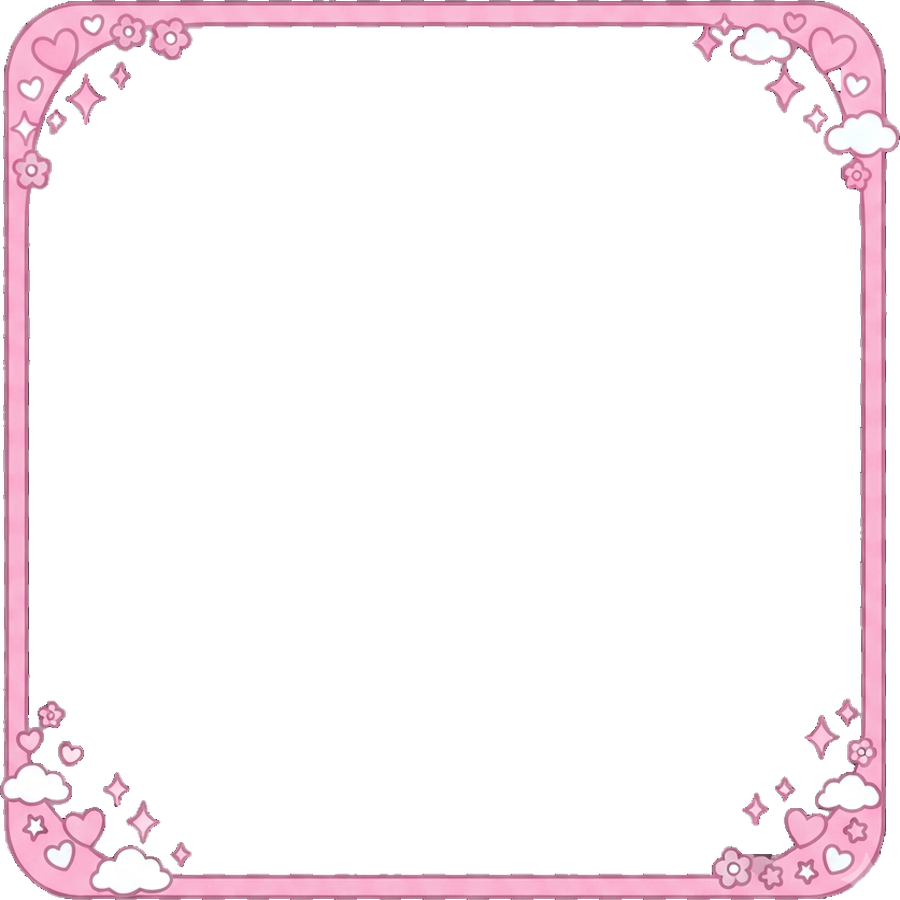
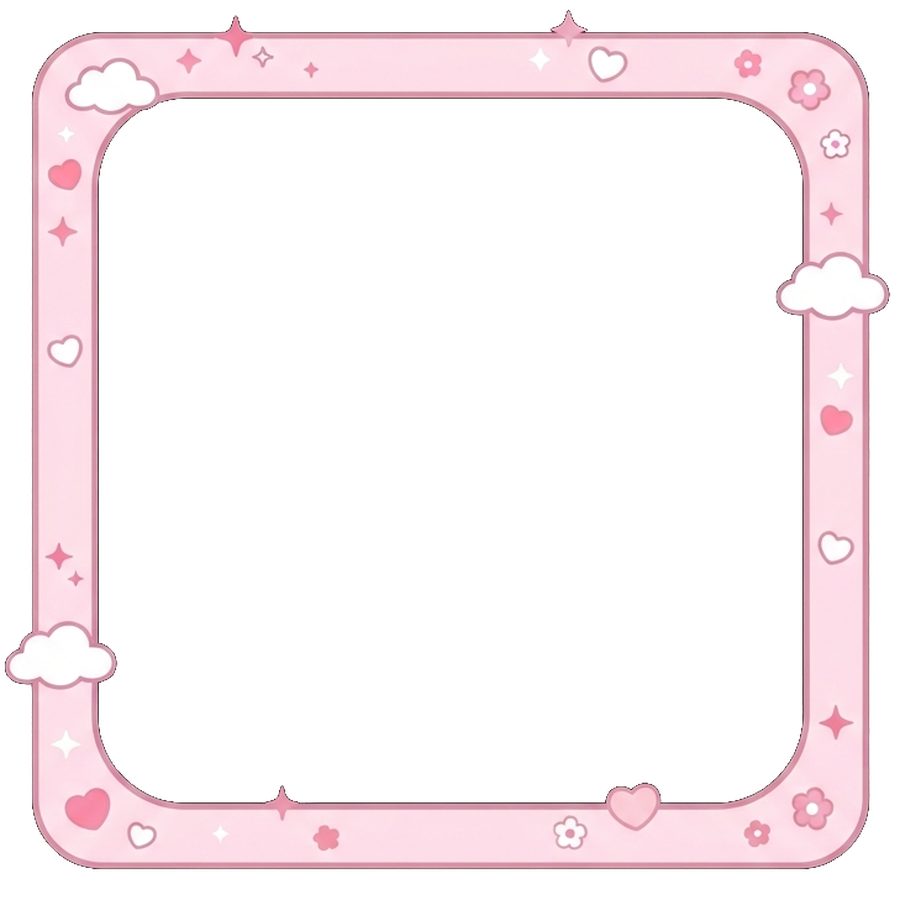
Khung và phông nền mới 4 màu từ Gemini, nền sáng đậm hơn (v17)
Claude-Session: https://claude.ai/code/session_01LvdVU5XjF27XJWzzwt7eid

diff --git a/index.html b/index.html
@@ -168,8 +168,8 @@ nav button.on b .ic{stroke-width:2.3}
 .etop{display:flex;align-items:center;gap:10px;margin-bottom:10px}
 .editor .vx{background:#fff!important;color:var(--ink)!important;box-shadow:var(--sh)}
 .estage{display:flex;justify-content:center}
-.eout{position:relative;width:min(100%,46vh,520px);aspect-ratio:1}.eout .eframe{width:100%}.eout.fr .eframe{position:absolute;inset:9.6%;width:auto;border-radius:17%;box-shadow:none}.eout .fover{z-index:4}
-.vimg.fr{background:transparent;box-shadow:none;overflow:visible;border-radius:0}.vimg.fr .pimg{position:absolute;inset:9.6%;width:80.8%;height:80.8%;border-radius:17%}.vimg.fr .vcap{bottom:15%}.vimg.fr .fover{z-index:2}
+.eout{position:relative;width:min(100%,46vh,520px);aspect-ratio:1}.eout .eframe{width:100%}.eout.fr .eframe{position:absolute;inset:var(--fi,10%);width:auto;border-radius:13%;box-shadow:none}.eout .fover{z-index:4}
+.vimg.fr{background:transparent;box-shadow:none;overflow:visible;border-radius:0}.vimg.fr .pimg{position:absolute;inset:var(--fi,10%);width:calc(100% - 2*var(--fi,10%));height:calc(100% - 2*var(--fi,10%));border-radius:13%}.vimg.fr .vcap{bottom:15%}.vimg.fr .fover{z-index:2}
 .eframe{position:relative;width:min(100%,46vh,520px);aspect-ratio:1;border-radius:34px;overflow:hidden;background:#222;box-shadow:0 10px 30px rgba(90,160,220,.35);touch-action:none}
 .eframe>img{width:100%;height:100%;object-fit:cover;display:block;user-select:none;-webkit-user-select:none}
 .elay{position:absolute;inset:0}
@@ -708,14 +708,15 @@ const STK={'😊 Cảm xúc':'😀 😍 🥰 😘 😂 🤣 😎 🤩 🥺 😭 
 const TXT_PRE=['Yêu em','Nhớ anh','Đói quá','Đi chơi nè','Chill thôi','Ăn gì đây?','Hôm nay vui','Về nhà thôi'];
 const TXT_COL=['#ffffff','#e8577a','#f59e0b','#10b981','#3b82f6','#8b5cf6','#111111'];
 const THEMES={xanh:['Xanh dương','#8cc8f2'],hong:['Hồng','#f6a9c6'],la:['Xanh lá','#94d9a6'],vang:['Vàng','#f5d272']};
-const thk=k=>THEMES[k]?k:'xanh',frSrc=k=>'assets/khung-'+thk(k)+'.png';
+const FRI={xanh:11.7,hong:10.2,la:12.2,vang:9.5};
+const thk=k=>THEMES[k]?k:'xanh',fiOf=k=>'--fi:'+FRI[thk(k)]+'%',frSrc=k=>'assets/khung-'+thk(k)+'.png';
 function applyBg(){document.documentElement.style.setProperty('--bgimg',`url(assets/nen-${thk(S.bg)}.jpg)`)}
 const EMO_FONT='"Apple Color Emoji","Segoe UI Emoji","Noto Color Emoji",sans-serif';
 function composePhoto(file){squareJpeg(file,img=>{const st={sel:LS.get('aud','all'),stk:[],cur:-1,tab:Object.keys(STK)[0],col:TXT_COL[0],fr:LS.get('fr','xanh')};
   if(Array.isArray(st.sel))st.sel=st.sel.filter(x=>others().some(p=>p.id===x));
   const ed=document.createElement('div');ed.className='editor';ed.innerHTML=`
     <div class="etop"><button class="ib vx" id="ex">${I.x}</button><b class="grow" style="text-align:center">Khoảnh khắc</b><button class="btn" id="enext" style="min-height:40px;padding:8px 16px">Tiếp</button></div>
-    <div class="estage"><div class="eout${st.fr==='none'?'':' fr'}" id="eout"><div class="eframe" id="efr"><img src="${img}" draggable="false"><div class="elay" id="elay"></div><input id="cap" maxlength="60" placeholder="Thêm lời nhắn…"></div><img class="fover" id="efo" src="${frSrc(st.fr)}" alt=""${st.fr==='none'?' style="display:none"':''}></div></div>
+    <div class="estage"><div class="eout${st.fr==='none'?'':' fr'}" id="eout" style="${fiOf(st.fr)}"><div class="eframe" id="efr"><img src="${img}" draggable="false"><div class="elay" id="elay"></div><input id="cap" maxlength="60" placeholder="Thêm lời nhắn…"></div><img class="fover" id="efo" src="${frSrc(st.fr)}" alt=""${st.fr==='none'?' style="display:none"':''}></div></div>
     <div class="efrs" id="efrs"></div>
     <div class="etools hide" id="etl"><button data-k="sm">➖</button><button data-k="lg">➕</button><button data-k="rl">↺</button><button data-k="rr">↻</button><button data-k="del">🗑</button><button data-k="ok">✓</button></div>
     <div class="etabs" id="etabs"></div><div class="egrid" id="egrid"></div>`;
@@ -734,7 +735,7 @@ function composePhoto(file){squareJpeg(file,img=>{const st={sel:LS.get('aud','al
       q('#etadd').onclick=()=>{const v=q('#etx').value.trim();if(v){add({t:v,c:st.col});q('#etx').value=''}}}
     else{g.className='egrid';g.innerHTML=STK[st.tab].split(' ').map(e=>`<button>${e}</button>`).join('');g.querySelectorAll('button').forEach(b=>b.onclick=()=>add({e:b.textContent}))}};
   const frs=()=>{q('#efrs').innerHTML='Khung: '+Object.keys(THEMES).map(k=>`<button data-f="${k}" title="${THEMES[k][0]}" style="background:${THEMES[k][1]}" class="${k===st.fr?'on':''}"></button>`).join('')+`<button data-f="none" title="Không khung" style="background:#fff" class="${st.fr==='none'?'on':''}">⊘</button>`;
-    q('#efrs').querySelectorAll('[data-f]').forEach(b=>b.onclick=()=>{st.fr=b.dataset.f;LS.set('fr',st.fr);const o=q('#efo');q('#eout').classList.toggle('fr',st.fr!=='none');if(st.fr==='none')o.style.display='none';else{o.style.display='';o.src=frSrc(st.fr)}frs();drawStk()})};frs();
+    q('#efrs').querySelectorAll('[data-f]').forEach(b=>b.onclick=()=>{st.fr=b.dataset.f;LS.set('fr',st.fr);const o=q('#efo');q('#eout').classList.toggle('fr',st.fr!=='none');q('#eout').setAttribute('style',fiOf(st.fr));if(st.fr==='none')o.style.display='none';else{o.style.display='';o.src=frSrc(st.fr)}frs();drawStk()})};frs();
   tabs();drawStk();
   // kéo, phóng to bằng 2 ngón, xoay
   const pts=new Map();let base=null;
@@ -768,7 +769,7 @@ async function openViewer(uid,start){await loadPhotos();const L=phOf(uid),p=pers
   LS.set('phseen_'+uid,L[0].t);drawPeople();let i=start||0;
   const v=document.createElement('div');v.className='viewer';document.body.appendChild(v);
   const draw=async()=>{const x=L[i];v.innerHTML=`<div class="vtop">${avHtml(p,36)}<div class="grow"><b>${esc(p.name||'')}${mine?' (bạn)':''}</b><div class="vs">${ago(x.t)}${mine?' · '+audLabel(x.see):''}</div></div><span class="vs">${i+1}/${L.length}</span><button class="ib vx" id="vx">${I.x}</button></div>
-      <div class="vimg${x.fr==='none'?'':' fr'}">${x.fr==='none'?'':`<img class="fover" src="${frSrc(x.fr)}" alt="">`}<div class="spin">Đang tải ảnh…</div>${x.cap?`<div class="vcap">${esc(x.cap)}</div>`:''}<button class="vnav l" id="vp"></button><button class="vnav r" id="vn"></button></div>
+      <div class="vimg${x.fr==='none'?'':' fr'}" style="${fiOf(x.fr)}">${x.fr==='none'?'':`<img class="fover" src="${frSrc(x.fr)}" alt="">`}<div class="spin">Đang tải ảnh…</div>${x.cap?`<div class="vcap">${esc(x.cap)}</div>`:''}<button class="vnav l" id="vp"></button><button class="vnav r" id="vn"></button></div>
       <div class="vdots">${L.slice(0,20).map((_,k)=>`<i class="${k===i?'on':''}"></i>`).join('')}</div>
       ${mine?`<div class="row" style="gap:8px;margin-top:12px"><button class="btn sec grow" id="vaud">${I.eye} Ai xem được</button><button class="btn red" id="vdel">Xoá</button></div>`:''}
       <div class="vre" id="vre"></div><div class="vcm" id="vcm"></div>
@@ -880,7 +881,7 @@ function drawSet(){const e=$('#set');const M=(S.couple&&S.couple.members)||[],ow
   <div class="card"><h2>Khoảnh khắc của bạn</h2><p class="mut" style="margin-top:0">${phCount(NET.uid)} ảnh đã chia sẻ. Bấm vào để xem, đổi người được xem hoặc xoá.</p><div class="row"><button class="btn sec grow" id="myph">${I.eye} Xem ảnh của tôi</button><button class="btn" id="newph">${I.cam} Chụp</button></div></div>
   <div class="card"><h2>Màu ảnh</h2><label class="f">Phông nền khi chụp và xem ảnh</label><div class="thm" id="thbg">${Object.keys(THEMES).map(k=>`<button data-bg="${k}" title="${THEMES[k][0]}" style="background:${THEMES[k][1]}" class="${k===thk(S.bg)?'on':''}"></button>`).join('')}</div>
     <label class="f">Khung ảnh mặc định (đổi được ngay lúc chụp)</label><div class="thm" id="thfr">${Object.keys(THEMES).map(k=>`<button data-fr="${k}" title="${THEMES[k][0]}" style="background:${THEMES[k][1]}" class="${k===LS.get('fr','xanh')?'on':''}"></button>`).join('')}<button data-fr="none" title="Không khung" style="background:#fff" class="${LS.get('fr','xanh')==='none'?'on':''}">⊘</button></div>
-    <p class="mut" style="margin:4px 0 0">Xanh dương · Hồng · Xanh lá · Vàng. Bạn bè thấy ảnh của bạn với đúng khung bạn chọn.</p></div>
+    <p class="mut" style="margin:4px 0 0">Nền và khung chọn riêng, không cần cùng màu. Bạn bè thấy ảnh của bạn với đúng khung bạn chọn.</p></div>
   <div class="card"><h2>Tên, ảnh và biểu tượng</h2>
     <div class="row" style="gap:12px">${avHtml({id:NET.uid,name:S.name,em:S.em,av:S.av},64)}<div class="grow"><button class="btn sec w" id="upav">${I.cam} ${S.av?'Đổi ảnh':'Tải ảnh lên'}</button>${S.av?'<button class="btn gh w" id="rmav" style="margin-top:6px;min-height:36px">Bỏ ảnh</button>':''}</div></div>
     <input type="file" id="avf" accept="image/*" class="hide">
@@ -902,7 +903,7 @@ function drawSet(){const e=$('#set');const M=(S.couple&&S.couple.members)||[],ow
   <div class="card"><h2>Về vị trí khi tắt app</h2><p class="mut" style="margin-top:0">Đây là ứng dụng web nên điện thoại chỉ cho gửi vị trí <b>khi app đang mở</b>. Mỗi lần mở app là vị trí mới được gửi ngay, và mọi người luôn thấy “cập nhật lúc nào”. Nút 🔔 để nhờ ai đó mở app cập nhật.</p>
     <p class="mut">Nếu muốn vị trí tự cập nhật cả khi đã tắt app, có thể bật thêm <b>Chia sẻ vị trí của Google Maps</b> (Android và iPhone) hoặc <b>Tìm (Find My)</b> nếu mọi người dùng iPhone.</p></div>
   <div class="card"><h2>Rời nhóm</h2><p class="mut" style="margin-top:0">Xoá vị trí của bạn khỏi máy chủ và rời khỏi nhóm này.</p><button class="btn red w" id="lv">Rời nhóm</button></div>
-  <p class="mut" style="text-align:center">Everything · phiên bản 16${DEMO?' · xem thử':''}</p>`;
+  <p class="mut" style="text-align:center">Everything · phiên bản 17${DEMO?' · xem thử':''}</p>`;
   if($('#lo'))$('#lo').onclick=logout;
   if($('#mkacc'))$('#mkacc').onclick=async ev=>{const u=normU($('#us').value),p=$('#pw').value;if(!/^[a-z0-9._-]{3,30}$/.test(u))return toast('Tên đăng nhập 3–30 ký tự, chỉ chữ không dấu, số, dấu chấm, gạch',4000);if(p.length<6)return toast('Mật khẩu ít nhất 6 ký tự');
     ev.target.disabled=true;try{await API.register(u,p);S.user=u;LS.set('user',u);await API.saveProfile({name:S.name,user:u,code:S.code});toast('Đã tạo tài khoản ✅');drawSet()}catch(er){ev.target.disabled=false;toast(errMsg(er),4500)}};

diff --git a/sw.js b/sw.js
@@ -1,5 +1,5 @@
 // Everything: lưu vỏ app để mở nhanh; dữ liệu luôn lấy mới từ máy chủ
-const C='everything-v16',SHELL=['./','index.html','manifest.webmanifest','icon.svg','icon-192.png'];
+const C='everything-v17',SHELL=['./','index.html','manifest.webmanifest','icon.svg','icon-192.png'];
 self.addEventListener('install',e=>{e.waitUntil(caches.open(C).then(c=>c.addAll(SHELL)).then(()=>self.skipWaiting()))});
 self.addEventListener('activate',e=>{e.waitUntil(caches.keys().then(k=>Promise.all(k.filter(x=>x!==C).map(x=>caches.delete(x)))).then(()=>self.clients.claim()))});
 self.addEventListener('fetch',e=>{const u=new URL(e.request.url);if(e.request.method!=='GET'||u.origin!==location.origin)return;
